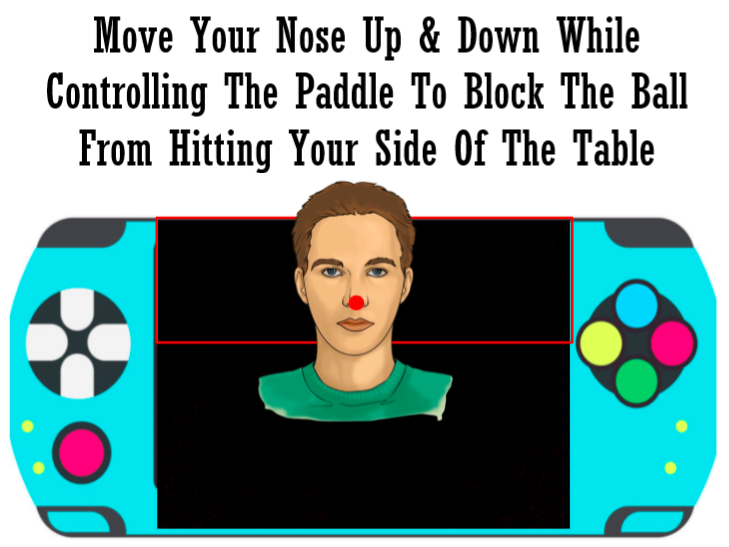
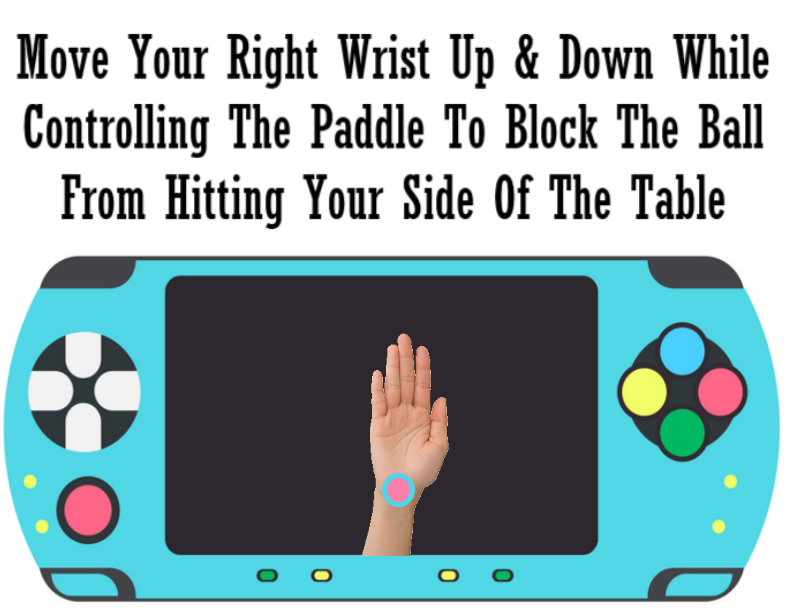
Add files via upload

diff --git a/main.js b/main.js
@@ -23,6 +23,9 @@ var ball = {
   dx: 3,
   dy: 3
 }
+rwX="";
+rwY="";
+score="";
 
 function setup() {
   var canvas = createCanvas(700, 600);
@@ -33,6 +36,15 @@ function setup() {
   video.parent('game_console');
   poseNet = ml5.poseNet(video, modelLoaded);
   poseNet.on('pose',gotPoses);
+}
+
+function gotPoses(results) {
+	if (results.length>0) {
+console.log(results);
+rwX=results[0].pose.rightWrist.x;
+rwY=results[0].pose.rightWrist.y;
+score=results[0].pose.rightWrist.score;
+}
 }
 
 function modelLoaded() {
@@ -51,6 +63,12 @@ function draw() {
   fill("black");
   stroke("black");
   rect(0, 0, 20, 700);
+  
+  if (score > 0.2) {
+    fill("#F981A7");
+    stroke("#4ED5E9");
+    circle(rwX,rwY,20);
+  }
 
   //funtion paddleInCanvas call 
   paddleInCanvas();
